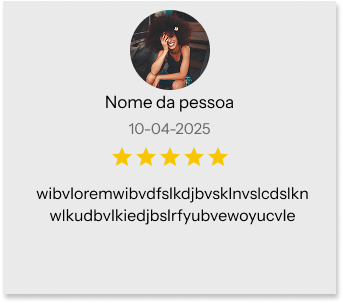
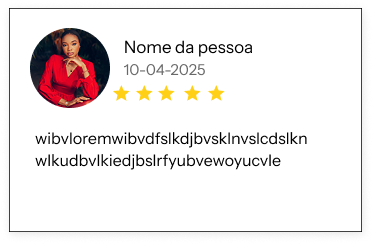
second3 viviane-app

Changed region(s): [[0.0, 0.0287, 0.9913, 1.0], [0.0875, 0.4877, 0.9038, 0.7459]]

diff --git a/src/components/Topics.jsx b/src/components/Topics.jsx
@@ -1,0 +1,30 @@
+import tech from "../assets/tech.png"
+import pessoas from "../assets/pessoas.png"
+import olho from "../assets/olho.png"
+
+function Topics() {
+    return (
+        <section className="bg-gradient-to-b from-black/90 to-mar backdrop-blur-sm w-screen items-center justify-center gap-7 flex flex-col px-[30px] pt-[45px] pb-[60px]">
+            <h2 className="m-auto text-[36px] font-Inter font-medium bg-gradient-to-r from-orange-300 from-[0%] to-[80%] to-yellow-200 bg-clip-text text-transparent border-t border-amber-200/40" >Aqui você encontra</h2>
+            <div className="flex flex-col lg:flex-row gap-1.5 items-center justify-center">
+                <div className="flex flex-col justify-items-start p-6 border border-amber-200 gap-3 max-w-[400px]">
+                    <img src={olho} alt="" className="w-[50px] h-[50px]" />
+                    <h2 className="bg-gradient-to-r from-orange-300 from-[0%] to-[80%] to-yellow-200 bg-clip-text text-transparent text-[29px] font-Inter w-full">Visão Estratégica e Inovadora</h2>
+                    <p className="text-white text-[18px] w-full">Lorem ipsum dolor sit amet consectetur adipisicing elit. Eaque perspiciatis qui sint eveniet, quidem perferendis veritatis natus!</p>
+                </div>
+                <div className="flex flex-col justify-items-start p-6 border border-amber-200 gap-3 max-w-[400px]">
+                    <img src={pessoas} alt="" className="w-[50px] h-[50px]" />
+                    <h2 className="bg-gradient-to-r from-orange-300 from-[0%] to-[80%] to-yellow-200 bg-clip-text text-transparent text-[29px] font-Inter w-full border ">Atendimento Personalizado</h2>
+                    <p className="text-white text-[18px] w-full">Lorem ipsum dolor sit amet consectetur adipisicing elit. Eaque perspiciatis qui sint eveniet, quidem perferendis veritatis natus!</p>
+                </div>
+                <div className="flex flex-col justify-items-start p-6 border border-amber-200 gap-3 max-w-[400px]">
+                    <img src={tech} alt="" className="w-[50px] h-[50px]" />
+                    <h2 className="bg-gradient-to-r from-orange-300 from-[0%] to-[80%] to-yellow-200 bg-clip-text text-transparent text-[29px] font-Inter w-full border-[23px]">Tecnologia</h2>
+                    <p className="text-white text-[18px] w-full">Lorem ipsum dolor sit amet consectetur adipisicing elit. Eaque perspiciatis qui sint eveniet, quidem perferendis veritatis natus!</p>
+                </div>
+            </div>
+        </section>
+    )
+}
+
+export default Topics;

diff --git a/src/components/Header.jsx b/src/components/Header.jsx
@@ -25,7 +25,7 @@ function Header() {
     })
 
     return (
-        <header id="Header" className={`fixed transition duration-500 z-5 top-0 w-screen px-[20px] xl:px-[30px] flex justify-between items-center ${scrolled ? 'bg-cyan-950/80 backdrop-blur-md h-[80px] shadow-lg' : 'bg-transparent h-[100px]'}`}>
+        <header id="Header" className={`fixed transition duration-500 z-5 top-0 w-screen px-[20px] xl:px-[30px] flex justify-between items-center ${scrolled ? 'bg-cyan-950/80 backdrop-blur-lg h-[65px] shadow-lg' : 'bg-transparent h-[100px]'}`}>
             <div className="">
                 <img src={menu} alt="menu" className="w-[27px] cursor-pointer" />
             </div>
@@ -34,22 +34,8 @@ function Header() {
                     <a href="https://www.instagram.com/dra.v_luizmacedoadvogada/" target="_blank" className="text-white font-Inter font-extralight md:pl-[25px] text-[12px] md:text-[18px]">@dra.v_luizmacedoadvogada</a>
                     <a href="https://wa.me/+5511996669191" target="_blank" className="text-white font-Inter font-extralight md:pr-[25px] md:border-r-white md:border-r text-[12px] md:text-[18px]">+55 11 99666-9191</a>
                 </div>
-                <div className="lg:flex items-center justify-center gap-3.5 mx-[8px] hidden">
-                    <a href="" target="_blank">
-                        <img src={emailLogo} alt="botão para o email" className="w-[33px]" />
-                    </a>
-                    <a href="https://wa.me/+5511996669191" target="_blank">
-                        <img src={wathsappLogo} alt="botão para o whatsapp" className="w-[33px]" />
-                    </a>
-                    <a href="" target="_blank">
-                        <img src={linkedinLogo} alt="botão para o linkedin" className="w-[33px]" />
-                    </a>
-                    <a href="https://www.instagram.com/dra.v_luizmacedoadvogada/" target="_blank">
-                        <img src={instagranLogo} alt="botão para o instagram" className="w-[33px]" />
-                    </a>
-                </div>
                 <a href="#Header">
-                    <img src={logoHead} alt="logo" className={` transition duration-1000 ${scrolled ? 'w-[80px] h-[80px]' : 'w-[100px] h-[100px]'}`} />
+                    <img src={logoHead} alt="logo" className={` transition duration-1000 ${scrolled ? 'w-[50px] h-[50px]' : 'w-[90px] h-[90px]'}`} />
                 </a>
             </div>
         </header>

diff --git a/src/components/Avaliation.jsx b/src/components/Avaliation.jsx
@@ -1,6 +1,7 @@
 import { Navigation, Pagination, Scrollbar, A11y } from 'swiper/modules';
 import { Swiper, SwiperSlide } from 'swiper/react';
 import { useState, useEffect} from "react"
+import backgroundAvaliation from "../assets/backgroundAvaliation.png"
 
 // Import Swiper styles
 import 'swiper/css';
@@ -45,23 +46,25 @@ function Avaliation() {
   ];
 
   return ( 
-    <section className=" md:mt-[-100px] w-screen md:px-[50px] m-auto mt-[30px] bg-white items-center justify-center mb-[300px]">
-      <h2 className='md:w-[600px] w-[90%] m-auto flex items-center justify-center md:pt-[10px] mb-[60px] pt-[100px] text-[30px] md:text-[50px] text-blue-950 border-b border-b-orange-900 font-Inter font-medium'>O que os clientes dizem?</h2>
+    <section className=" w-screen m-auto bg-gradient-to-b from-mar/90 to-black/90 backdrop-blur-sm  items-center justify-center pb-[20px] relative overflow-hidden top-0">
+      <h2 className='md:w-[400px] w-[90%] m-auto flex items-center justify-center md:pt-[50px] mb-[20px] pt-[100px] text-[36px] bg-gradient-to-r from-orange-300 from-[0%] to-[80%] to-yellow-200 bg-clip-text text-transparent  font-Inter font-medium'>O que os clientes dizem</h2>
       
       <Swiper
         modules={[Navigation, Pagination, Scrollbar, A11y]}
         slidesPerView={slidePerview}
         pagination={{ clickable: true }}
         navigation
-        className='w-full'
+        className='w-[85%] m-auto'
       >
         {data.map((item) => (
-          <SwiperSlide key={item.id}>
-            <img
+          <SwiperSlide key={item.id} className=''>
+            <div>
+              <img
               src={item.image}
               alt={`Slide ${item.id}`}
-              className="w-full p-[42px] object-cover"
+              className="w-full p-5 object-cover"
             />
+            </div>
           </SwiperSlide>
         ))}
       </Swiper>

diff --git a/src/components/Sobre.jsx b/src/components/Sobre.jsx
@@ -1,0 +1,26 @@
+import vivianeFoto1 from "../assets/vivianeFoto1.png"
+import logoHead from "../assets/logoHead.png"
+
+function Sobre() {
+    return (
+          <section className="w-screen flex items-center justify-end">
+            {/* <div className="bg-gradient-to-r from-mar to-ceu h-[530px] w-[1308px] flex">
+                <div className="h-full w-[370px] flex flex-col items-center justify-items-start border">
+                    <img src={vivianeFoto1} alt="foto da advogada viviane" className="w-full" />
+                </div>
+                <div className="w-[300px]">
+                    <h2>Viviane Luiz Macedo</h2>
+                    <h3>ADVOCACIA</h3>
+                    <p>Lorem, ipsum dolor sit amet consectetur adipisicing elit. Nam asperiores neque, sint alias perferendis, blanditiis voluptatum maiores architecto saepe, harum commodi autem odit. Impedit in ut, cum ex suscipit vitae.lore Lorem ipsum dolor sit amet consectetur adipisicing elit. Quibusdam dolorem, tempora impedit perferendis sequi, placeat, quae nemo totam sint repellendus vitae maiores. Pariatur totam minima nisi, dolores provident quod ratione.</p>
+                    <p>Lorem ipsum dolor sit amet consectetur adipisicing elit. Sit sint tempora voluptatum exercitationem qui? Voluptatum saepe magnam a modi, optio velit ipsum qui sunt, aspernatur perferendis consectetur tenetur quaerat nesciunt!</p>
+                    <a href="">Transforme seu negócio</a>
+                </div>
+                <div>
+                    <img src={logoHead} alt="logo do escritório de advocacia" className="w-[30px]" />
+                </div>
+            </div> */}
+          </section>
+    )
+}
+
+export default Sobre;

diff --git a/src/components/Inicio.jsx b/src/components/Inicio.jsx
@@ -4,9 +4,9 @@ import backgroundInicio from "../assets/backgroundInicio.png"
 
 function Inicio() {
     return (
-        <section id="Inicio" className="bg-transparent md:h-[120vh] h-full mt-[100px] md:mt-0 left-0 w-screen flex flex-col pb-[100px] px-[20px] md:flex-row md:justify-center md:gap-10 md:items-center">
+        <section id="Inicio" className="bg-transparent md:py-[200px] xl:h-[100vh] mt-[100px] md:mt-0 left-0 w-screen flex flex-col pb-[100px] px-[20px] md:flex-row md:justify-center md:gap-10 md:items-center overflow-hidden">
             <img src={backgroundMobile} alt="fundo imagem de prédios" className="absolute top-0 w-screen left-0 z-[-2] md:opacity-0" />
-            <img src={backgroundInicio} alt="fundo prédios" className="absolute top-0 w-screen md:h-full xl:h-screen left-0 z-[-2] md:opacity-100 opacity-0" />
+            <img src={backgroundInicio} alt="fundo prédios" className="absolute top-0 left-0 z-[-2] md:opacity-100 opacity-0" />
             <div className="text-amber-200">
                 <h1 className="text-[90px] font-Italiana bg-gradient-to-r from-orange-300 from-[0%] to-[80%] to-yellow-200 bg-clip-text text-transparent md:text-[110px] md:leading-[100px] lg:text-[150px] leading-[90px] lg:leading-[130px] xl:leading-[150px] font-normal xl:text-[170px]">Viviane <br /> Luiz <br /> Macedo</h1>
             </div>

diff --git a/src/App.jsx b/src/App.jsx
@@ -4,14 +4,20 @@ import Header from "../src/components/Header.jsx"
 import backgroundMobile from "./assets/backgroundMobile.png"
 import backgroundInicio from "./assets/backgroundInicio.png"
 import Avaliation from './components/Avaliation.jsx'
+import Sobre from "./components/Sobre.jsx"
+import Topics from "./components/Topics.jsx"
+import background2 from "./assets/background2.png"
 
 
 function App() {
   return (
-    <div className='overflow-x-hidden'>
+    <div className='overflow-x-hidden overflow-y-hidden'>
       < Header />
       < Inicio />
+      <img src={background2} alt="" className='z-[-1] absolute w-screen h-[1500px]' />
       < Avaliation />
+      < Topics />
+      < Sobre />
     </div>
   )
 }

diff --git a/src/index.css b/src/index.css
@@ -12,6 +12,8 @@
     --font-Instrument: "Instrument", "sans-serif";
     --font-Inika: "Inika", "serif";
     --font-Inter: "Inter", "sans-serif";
+    --color-mar: #253646;
+    --color-ceu: #5A84AC;
 }
 
 @import "tailwindcss";
